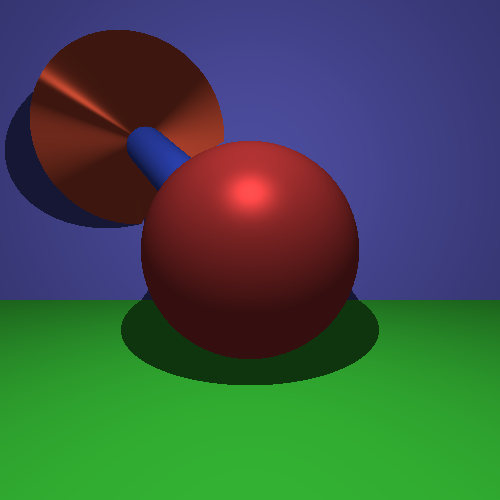
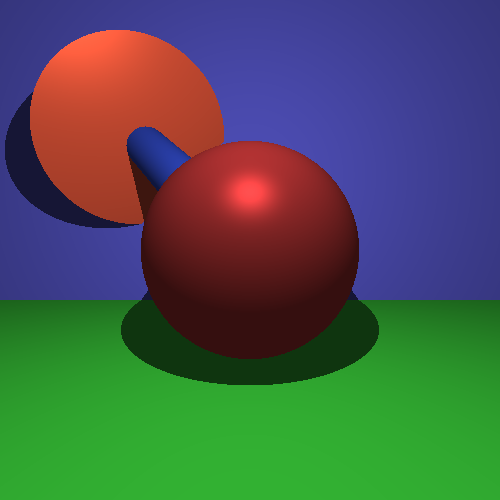
Cross Product Fixed

Changed region(s): [[0.06, 0.06, 0.45, 0.45]]

diff --git a/implementation/cone.cpp b/implementation/cone.cpp
@@ -58,6 +58,12 @@ std::tuple<double, double> cone::ray_intersect_cone_shell_vector(vp O, vp D){
 
 std::tuple<double, vp> cone::intersection_with_ray(vp O, vp D, double t_min, double t_max){
     double aux1 = INF, aux2 = INF, t = INF; vp n; bool invert = false;
+    // Check if there are intersection with the shell of cone
+    std::tie(aux1, aux2) = ray_intersect_cone_shell_vector(O, D); 
+    // if(aux1-EPS > t_min && aux1 < t_max && aux1 < t) t = aux1, n = normal_with_shell(O, D, aux1);
+    // if(aux2-EPS > t_min && aux2 < t_max && aux2 < t) t = aux2, n = normal_with_shell(O, D, aux2);
+    if(comparator::g(aux1, t_min) && comparator::l(aux1, t_max) && comparator::l(aux1, t)) t = aux1, n = normal_with_shell(O, D, aux1);
+    if(comparator::g(aux2, t_min) && comparator::l(aux2, t_max) && comparator::l(aux2, t)) t = aux2, n = normal_with_shell(O, D, aux2);
     //Check if there are intersection with the base of cone
     aux1 =  ray_intersect_base(O, D, this->get_center(), -this->get_direction());
     // if(aux1-EPS > t_min && aux1 < t_max && aux1 < t){
@@ -65,13 +71,7 @@ std::tuple<double, vp> cone::intersection_with_ray(vp O, vp D, double t_min, dou
         if(this->get_has_base()) t = aux1, n = -this->get_direction();
         else invert = true;
     }
-    // Check if there are intersection with the shell of cone
-    std::tie(aux1, aux2) = ray_intersect_cone_shell_vector(O, D); 
-    // if(aux1-EPS > t_min && aux1 < t_max && aux1 < t) t = aux1, n = normal_with_shell(O, D, aux1);
-    // if(aux2-EPS > t_min && aux2 < t_max && aux2 < t) t = aux2, n = normal_with_shell(O, D, aux2);
-    if(comparator::g(aux1, t_min) && comparator::l(aux1, t_max) && comparator::l(aux1, t)) t = aux1, n = normal_with_shell(O, D, aux1);
-    if(comparator::g(aux2, t_min) && comparator::l(aux2, t_max) && comparator::l(aux2, t)) t = aux2, n = normal_with_shell(O, D, aux2);
-    // if(invert) n = -n;
+    if(invert) n = -n;
     return {t, n};
 }
 

diff --git a/main.cpp b/main.cpp
@@ -26,12 +26,10 @@ int main(){
     double R = 40;
     cena.add_object(new sphere(vp(0, 0, -100), R, px(0.7, 0.2, 0.2), px(0.7, 0.2, 0.2), px(0.7, 0.2, 0.2), 10)); 
     cena.add_object(new cilinder(vp(0, 0, -100), vp(-1/sqrt(3.0), 1/sqrt(3.0), -1/sqrt(3.0)), R/3.0, 3*R, px(0.2, 0.3, 0.8), px(0.2, 0.3, 0.8), px(0.2, 0.3, 0.8), 10, true, true)); 
-    cena.add_object(new cone(vp(-69.282, 69.282, -169.282), vp(-1/sqrt(3.0), 1/sqrt(3.0), -1/sqrt(3.0)), 1.5*R, R/3.0, px(0.8, 0.3, 0.2), px(0.8, 0.3, 0.2), px(0.8, 0.3, 0.2), 10, false)); 
+    cena.add_object(new cone(vp(-69.282, 69.282, -169.282), vp(-1/sqrt(3.0), 1/sqrt(3.0), -1/sqrt(3.0)), 1.5*R, R/3.0, px(0.8, 0.3, 0.2), px(0.8, 0.3, 0.2), px(0.8, 0.3, 0.2), 10, true)); 
     cena.add_object(new plan(vp(0, -R, 0), vp(0, 1, 0), px(0.2, 0.7, 0.2), px(0.2, 0.7, 0.2), px(0.0, 0.0, 0.0), 1)); 
     cena.add_object(new plan(vp(0, 0, -200), vp(0, 0, 1), px(0.3, 0.3, 0.7), px(0.3, 0.3, 0.7), px(0.0, 0.0, 0.0), 1)); 
 
-    // cena.add_object(new cone(vp(0, 60, -100), vp(0, 15, -200), 36, px(0.7, 0.2, 0.2), px(0.7, 0.2, 0.2), px(0.7, 0.2, 0.2), 10, false));
-    // cena.add_object(new cone(vp(0, 0, -100), vp(0, 0, -200), 36, px(0.7, 0.2, 0.2), px(0.7, 0.2, 0.2), px(0.7, 0.2, 0.2), 10, false));
     
     cena.add_light(new ambient_light(px(0.3, 0.3, 0.3)));
     cena.add_light(new point_light(px(0.7, 0.7, 0.7), vp(0, 60, -30)));

diff --git a/implementation/scene.cpp b/implementation/scene.cpp
@@ -1,4 +1,4 @@
-#include <iostream>
+#include <bits/stdc++.h>
 #include <cmath>
 #include "../header/scene.hpp"
 #include "../header/comparator.hpp"
@@ -9,7 +9,7 @@ scene::scene(vp O, viewport vw, canvas c) : O(O), vw(vw), c(c) {
 }
 
 bool scene::without_shade(vp P, light* l){
-    double t, t_min = 0.0, t_max = INF, closest = INF; vp n;
+    double t, t_min = 1, t_max = INF, closest = INF; vp n;
     vp L = l->get_l(P); 
     if((~L) == 0.0) return true;
     vp NL = L/(~L);
@@ -57,7 +57,7 @@ void scene::draw_scenario(){
     for(int i = 0; i < c.get_n(); i++){
         for(int j = 0; j < c.get_m(); j++){
             vp D = xy(i, j); 
-            px color = trace_ray(this->O, (D/(~D)), 0.0, INF);
+            px color = trace_ray(this->O, (D/(~D)), 1.0, INF);
             c.to_color(i, j, color);
         }
     }

diff --git a/implementation/point_light.cpp b/implementation/point_light.cpp
@@ -1,4 +1,6 @@
+#include <bits/stdc++.h>
 #include "../header/point_light.hpp"
+#include "../header/comparator.hpp"
 
 point_light::point_light(px intensity, vp position) : specular_light(intensity), position(position){}
 
@@ -6,8 +8,9 @@ px point_light::calculate_intensity(vp P, vp N, vp V, object* obj, bool calculat
     px i(0, 0, 0);
     if(!calculate) return i;
     vp L = this->get_position()-P;  
+    L = L/(~L);
     double ndl = N*L;
-    if(ndl > 0.0) i = i + (obj->get_k_d()*(this->get_intensity()*ndl)/((~N)*(~L)));
+    if(ndl > 0.0) i = i + (obj->get_k_d()*(this->get_intensity()*ndl));
     i = i + specular(N, L, V, obj);
     return i;
 }

diff --git a/implementation/vp.cpp b/implementation/vp.cpp
@@ -1,4 +1,5 @@
 #include <cmath>
+#include <iostream>
 #include "../header/vp.hpp"
 
 vp::vp() : x(0), y(0), z(0){}
@@ -35,10 +36,15 @@ double vp::operator~(){
 vp vp::operator%(vp v){
     return vp(
         this->get_y()*v.get_z() - this->get_z()*v.get_y(),
-        this->get_z()*v.get_x() - this->get_x() - v.get_z(),
+        this->get_z()*v.get_x() - this->get_x()*v.get_z(),
         this->get_x()*v.get_y() - this->get_y()*v.get_x()
     );
 }
+
+void vp::print(){
+    std::cout << this->x << " " << this->y << " " << this->z << "\n";
+}
+
 
 //Getters and Setters
 double vp::get_x(){ return this->x; }

diff --git a/implementation/px.cpp b/implementation/px.cpp
@@ -1,9 +1,9 @@
 #include "../header/px.hpp"
 #include <algorithm>
 
-px::px(){ r = g = b = 1; } //Standard Color(White)
-px::px(double r, double g, double b): r(std::min(r, 10000.0)), g(std::min(g, 10000.0)), b(std::min(b, 100.0)){}
-//TODO: decide how to limitate the pixels in above constructor 
+px::px(){ r = g = b = 0; }
+px::px(double r, double g, double b): r(r), g(g), b(b){}
+
 px px::operator+(px v){
     return px(this->get_r()+v.get_r(), this->get_g()+v.get_g(), this->get_b()+v.get_b());
 }

diff --git a/implementation/specular_light.cpp b/implementation/specular_light.cpp
@@ -7,7 +7,7 @@ px specular_light::specular(vp N, vp L, vp V, object* obj){
     if(obj->get_specular() != -1){
         vp R = (N*(N*L))*2 - L;
         double rdv = R*V;
-        if(rdv > 0.0) return (obj->get_k_s()*(this->get_intensity()*pow((rdv/((~R)*(~V))), obj->get_specular())));
+        if(rdv > 0.0) return (obj->get_k_s()*(this->get_intensity()*pow(rdv, obj->get_specular())));
     }
     return px(0, 0, 0);
 }

diff --git a/header/canvas.hpp b/header/canvas.hpp
@@ -16,7 +16,7 @@ class canvas{
         
         void write_image(const char* image_name); //save imagem with name "image_name" in .png 
         void to_color(int i, int j, px color); //to color the pixel[i][j] of our canvas/image with the "color"
-        
+        px get_color(int i, int j);        
         //Getters and Setters
         int get_n();
         void set_n(int n);

diff --git a/header/vp.hpp b/header/vp.hpp
@@ -19,7 +19,8 @@ class vp{
         vp operator/(double alp); //vector division by a scalar
         double operator~(); //vector module/size
         vp operator%(vp v); //cross product
-
+        void print();
+    
         //Getters and Setters
         double get_x();
         void set_x(double x);

diff --git a/implementation/canvas.cpp b/implementation/canvas.cpp
@@ -19,6 +19,7 @@ void canvas::write_image(const char* image_name){
 }
 
 void canvas::to_color(int i, int j, px color){ this->M[i][j] = color; }
+px canvas::get_color(int i, int j){ return this->M[i][j]; } 
 
 //Getters and Setters
 int canvas::get_n(){ return this->n; }
